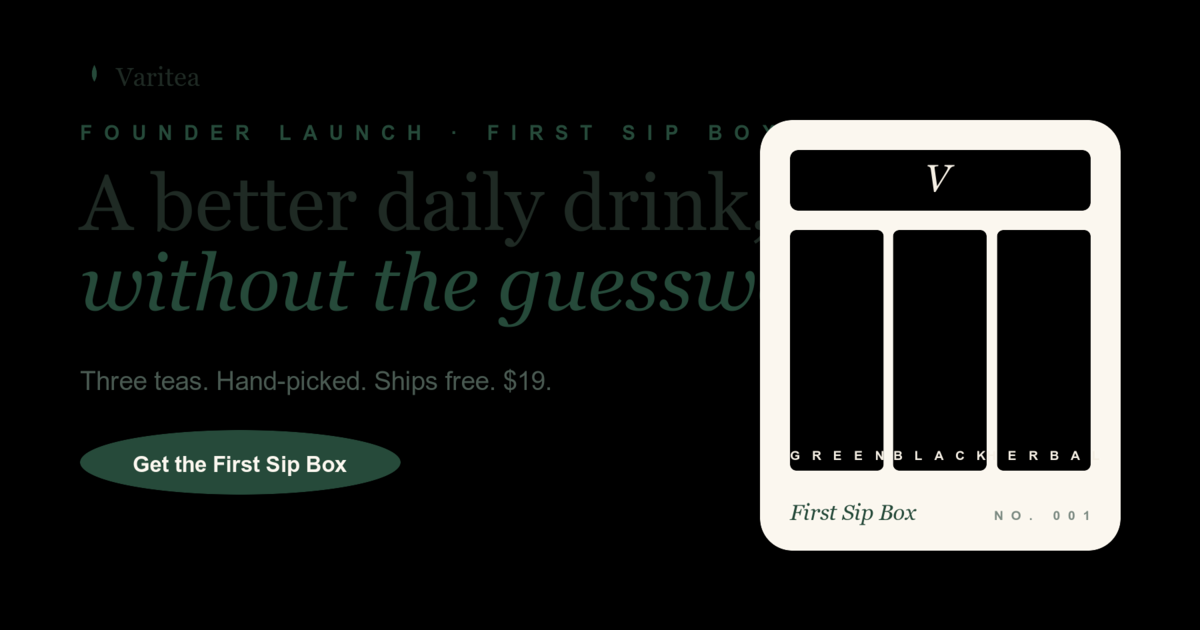
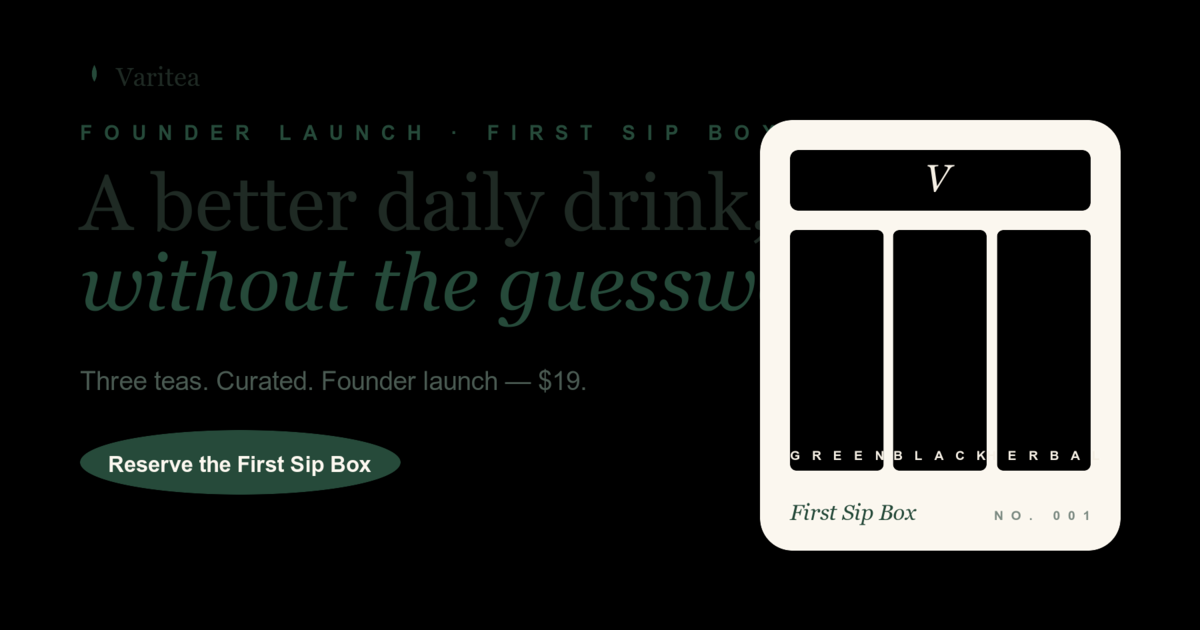
Landing: remove unvalidated claims (aggregateRating, free shipping, taste promise, fabricated testimonials)
- JSON-LD Product: drop aggregateRating (4.9/47 reviews) and shippingDetails
- FAQ schema + on-page FAQ: replace 'ships free' Q/A with 'shipping calculated at checkout'; remove 'our coffee-switching customers' phrasing
- Hero/footer/announce/bundle/feature: replace 'Free US shipping', '30-day taste promise', refund language, 'small-batch', 'hand-picked/hand-curated' with neutral 'founder launch offer', 'curated', 'planned', 'shipping calculated at checkout'
- Marquee strip: replace fabricated testimonial quotes with brand value statements
- Persona section: 'keep ordering this box' -> 'designed for three kinds of people'
- OG image SVG/PNG: replace 'Hand-picked. Ships free.' subline with 'Curated. Founder launch — $19.' and CTA text
- README: update SEO inventory to reflect removed schema fields

Keeps the $19 founder launch offer intact.

Changed region(s): [[0.185, 0.573, 0.4933, 0.6333], [0.0925, 0.7238, 0.3083, 0.754]]

diff --git a/site/index.html b/site/index.html
@@ -7,7 +7,7 @@
 
 <!-- Primary SEO -->
 <title>Varitea First Sip Box — Curated 3-Tea Starter for People Who Want Better Than Coffee</title>
-<meta name="description" content="Skip the guessing. The Varitea First Sip Box is a hand-curated 3-tea sampler — a loose leaf tea sampler, herbal tea sampler and beginner tea box in one. $19, ships free. Founder launch offer.">
+<meta name="description" content="Skip the guessing. The Varitea First Sip Box is a curated 3-tea sampler — a loose leaf tea sampler, herbal tea sampler and beginner tea box in one. $19 founder launch offer.">
 <meta name="keywords" content="custom tea blend, loose leaf tea sampler, tea gift box, iced tea starter, coffee alternative tea, herbal tea sampler, beginner tea box">
 <link rel="canonical" href="https://drinkvaritea.com/">
 
@@ -15,12 +15,12 @@
 <meta property="og:type" content="website">
 <meta property="og:site_name" content="Varitea">
 <meta property="og:title" content="Varitea First Sip Box — A better daily drink, without the guesswork">
-<meta property="og:description" content="A curated 3-tea starter for coffee refugees, variety seekers, and gifters. Founder launch offer: $19, ships free.">
+<meta property="og:description" content="A curated 3-tea starter for coffee refugees, variety seekers, and gifters. Founder launch offer: $19.">
 <meta property="og:url" content="https://drinkvaritea.com/">
 <meta property="og:image" content="https://drinkvaritea.com/assets/og-image.png">
 <meta property="og:image:width" content="1200">
 <meta property="og:image:height" content="630">
-<meta property="og:image:alt" content="Varitea First Sip Box — a curated 3-tea starter sampler for $19">
+<meta property="og:image:alt" content="Varitea First Sip Box — a planned 3-tea starter sampler, $19 founder launch offer">
 <meta property="og:locale" content="en_US">
 
 <!-- Twitter -->
@@ -51,6 +51,7 @@
       "url": "https://drinkvaritea.com/",
       "logo": "https://drinkvaritea.com/assets/logo.svg",
       "description": "Taste-first DTC tea discovery brand. Curated loose-leaf tea boxes for people who want a better daily drink without the guesswork.",
+      "foundingDate": "2026",
       "sameAs": []
     },
     {
@@ -63,10 +64,10 @@
     {
       "@type": "Product",
       "name": "Varitea First Sip Box",
-      "description": "A hand-curated 3-tea starter sampler. One bright green, one bold black, one calming herbal — chosen so you can find your daily drink fast. Loose-leaf, small-batch, beginner-friendly.",
+      "description": "A curated 3-tea starter sampler. One bright green, one bold black, one calming herbal — chosen so you can find your daily drink fast. Loose-leaf, beginner-friendly.",
       "brand": { "@type": "Brand", "name": "Varitea" },
       "category": "Tea sampler",
-      "image": "https://drinkvaritea.com/assets/first-sip-box.jpg",
+      "image": "https://drinkvaritea.com/assets/og-image.png",
       "sku": "VT-FSB-001",
       "offers": {
         "@type": "Offer",
@@ -74,18 +75,7 @@
         "priceCurrency": "USD",
         "price": "19.00",
         "availability": "https://schema.org/PreOrder",
-        "itemCondition": "https://schema.org/NewCondition",
-        "shippingDetails": {
-          "@type": "OfferShippingDetails",
-          "shippingRate": { "@type": "MonetaryAmount", "value": "0", "currency": "USD" },
-          "shippingDestination": { "@type": "DefinedRegion", "addressCountry": "US" }
-        }
-      },
-      "aggregateRating": {
-        "@type": "AggregateRating",
-        "ratingValue": "4.9",
-        "reviewCount": "47",
-        "bestRating": "5"
+        "itemCondition": "https://schema.org/NewCondition"
       }
     }
   ]
@@ -103,7 +93,7 @@
       "name": "What is the Varitea First Sip Box?",
       "acceptedAnswer": {
         "@type": "Answer",
-        "text": "A curated 3-tea starter sampler designed to help you find your daily drink fast. You get one bright green, one bold black, and one calming herbal — all loose-leaf, small-batch, and beginner-friendly. Brewing guide and tasting notes included."
+        "text": "A curated 3-tea starter sampler designed to help you find your daily drink fast. The planned box includes one bright green, one bold black, and one calming herbal — all loose-leaf and beginner-friendly. Brewing guide and tasting notes included."
       }
     },
     {
@@ -111,7 +101,7 @@
       "name": "How much tea is in the First Sip Box?",
       "acceptedAnswer": {
         "@type": "Answer",
-        "text": "Three pouches, each brews about 8–10 cups. Plenty to actually live with a tea for a few mornings and figure out what you love."
+        "text": "Three pouches, each planned to brew about 8–10 cups — enough to live with a tea for a few mornings and figure out what you love."
       }
     },
     {
@@ -119,15 +109,15 @@
       "name": "I drink coffee. Will Varitea tea actually keep me going?",
       "acceptedAnswer": {
         "@type": "Answer",
-        "text": "Yes. The box includes a bold black tea with caffeine in the same neighborhood as a light coffee, plus a green for a smoother lift. Many of our coffee-switching customers use the black tea as a one-to-one morning replacement."
+        "text": "The box is built around this question. It includes a bold black tea with caffeine in the same neighborhood as a light coffee, plus a green for a smoother lift — both designed to work as a morning replacement."
       }
     },
     {
       "@type": "Question",
-      "name": "Do you ship for free?",
+      "name": "How much does shipping cost?",
       "acceptedAnswer": {
         "@type": "Answer",
-        "text": "Yes. The $19 First Sip Box ships free in the United States during the founder launch."
+        "text": "Shipping is calculated at checkout based on your address. Final rates will be confirmed when the founder launch opens for orders."
       }
     },
     {
@@ -135,7 +125,7 @@
       "name": "Can I give the First Sip Box as a gift?",
       "acceptedAnswer": {
         "@type": "Answer",
-        "text": "Absolutely. The box is built to be giftable — a clean, premium tea gift box that works for tea drinkers, coffee switchers, and anyone curious. Add a gift note at checkout."
+        "text": "Yes. The box is designed to be giftable — a clean tea gift box that works for tea drinkers, coffee switchers, and anyone curious. A Gift Edition with a hand-written note is planned at launch."
       }
     },
     {
@@ -159,7 +149,7 @@
 <!-- Top announcement bar -->
 <div class="announce" role="status">
   <span class="dot" aria-hidden="true"></span>
-  Founder launch — First Sip Box ships free in the US.
+  Founder launch — reserve your First Sip Box.
 </div>
 
 <!-- Nav -->
@@ -198,7 +188,7 @@
         </h1>
         <p class="lede" data-reveal>
           Three teas. One bright green, one bold black, one calming herbal —
-          hand-picked so you can stop scrolling shop pages and start drinking
+          curated so you can stop scrolling shop pages and start drinking
           something you actually love.
         </p>
         <div class="hero__cta" data-reveal>
@@ -218,9 +208,9 @@
           </a>
         </div>
         <ul class="trust" data-reveal>
-          <li><svg viewBox="0 0 24 24" aria-hidden="true"><path d="M20 6L9 17l-5-5" stroke="currentColor" stroke-width="2" fill="none" stroke-linecap="round" stroke-linejoin="round"/></svg> Free US shipping</li>
-          <li><svg viewBox="0 0 24 24" aria-hidden="true"><path d="M20 6L9 17l-5-5" stroke="currentColor" stroke-width="2" fill="none" stroke-linecap="round" stroke-linejoin="round"/></svg> Small-batch loose leaf</li>
-          <li><svg viewBox="0 0 24 24" aria-hidden="true"><path d="M20 6L9 17l-5-5" stroke="currentColor" stroke-width="2" fill="none" stroke-linecap="round" stroke-linejoin="round"/></svg> 30-day taste promise</li>
+          <li><svg viewBox="0 0 24 24" aria-hidden="true"><path d="M20 6L9 17l-5-5" stroke="currentColor" stroke-width="2" fill="none" stroke-linecap="round" stroke-linejoin="round"/></svg> Founder launch offer</li>
+          <li><svg viewBox="0 0 24 24" aria-hidden="true"><path d="M20 6L9 17l-5-5" stroke="currentColor" stroke-width="2" fill="none" stroke-linecap="round" stroke-linejoin="round"/></svg> Loose-leaf, tasting-flight format</li>
+          <li><svg viewBox="0 0 24 24" aria-hidden="true"><path d="M20 6L9 17l-5-5" stroke="currentColor" stroke-width="2" fill="none" stroke-linecap="round" stroke-linejoin="round"/></svg> Shipping calculated at checkout</li>
         </ul>
       </div>
 
@@ -251,16 +241,16 @@
     </div>
   </section>
 
-  <!-- ============ MARQUEE / TRUST ============ -->
-  <section class="strip" aria-label="What people are saying">
+  <!-- ============ MARQUEE / VALUES ============ -->
+  <section class="strip" aria-label="What Varitea is about">
     <div class="strip__track">
-      <span>“Replaced my morning coffee in a week.”</span><span>·</span>
-      <span>Loose-leaf, small batch</span><span>·</span>
-      <span>“Finally — a tea box that isn't overwhelming.”</span><span>·</span>
+      <span>Taste-first tea discovery</span><span>·</span>
+      <span>Loose-leaf, tasting-flight format</span><span>·</span>
+      <span>Three honest cups, not eighty choices</span><span>·</span>
       <span>Beginner-friendly brewing guide</span><span>·</span>
-      <span>“Best gift I gave last year.”</span><span>·</span>
-      <span>Free US shipping</span><span>·</span>
-      <span>“I taste what I'm buying. Wild concept.”</span><span>·</span>
+      <span>A box built to be giftable</span><span>·</span>
+      <span>Founder launch — $19</span><span>·</span>
+      <span>Honest tasting notes, no jargon</span><span>·</span>
     </div>
   </section>
 
@@ -292,8 +282,8 @@
     <ol class="steps">
       <li class="step" data-reveal>
         <span class="step__n">01</span>
-        <h3 class="step__h">Get your box</h3>
-        <p>Curated 3-tea starter, $19, ships free. No subscription, no surprise charges.</p>
+        <h3 class="step__h">Reserve your box</h3>
+        <p>Curated 3-tea starter, $19. No subscription. Shipping calculated at checkout.</p>
       </li>
       <li class="step" data-reveal>
         <span class="step__n">02</span>
@@ -347,8 +337,8 @@
         <p class="kicker" data-reveal>The First Sip Box</p>
         <h2 class="h2" data-reveal>One box. Three honest tastes. Zero overwhelm.</h2>
         <p class="lede" data-reveal>
-          A hand-curated loose leaf tea sampler built like a tasting flight —
-          green, black, herbal. Each pouch brews 8–10 cups, with hot and iced
+          A curated loose leaf tea sampler built like a tasting flight —
+          green, black, herbal. Each pouch is planned to brew 8–10 cups, with hot and iced
           recipes printed on the bag.
         </p>
 
@@ -356,7 +346,7 @@
           <label class="bundle__opt" data-analytics-event="bundle_option_click" data-bundle-id="single">
             <input type="radio" name="bundle" value="single" checked>
             <span class="bundle__title">First Sip Box</span>
-            <span class="bundle__sub">3 teas · $19 · ships free</span>
+            <span class="bundle__sub">3 teas · $19 · founder launch</span>
             <span class="bundle__price">$19</span>
           </label>
           <label class="bundle__opt bundle__opt--featured" data-analytics-event="bundle_option_click" data-bundle-id="double">
@@ -381,7 +371,7 @@
              data-cta-label="box_section_checkout">
             Send me the box →
           </a>
-          <p class="micro">No subscription. 30-day taste promise: love it or we refund the box.</p>
+          <p class="micro">No subscription. Shipping calculated at checkout.</p>
         </div>
       </div>
     </div>
@@ -390,7 +380,7 @@
   <!-- ============ AUDIENCE / WHO IT'S FOR ============ -->
   <section class="section section--soft" id="who">
     <p class="kicker center" data-reveal>Who it's for</p>
-    <h2 class="h2 center" data-reveal>Three kinds of people keep ordering this box.</h2>
+    <h2 class="h2 center" data-reveal>The box is designed for three kinds of people.</h2>
 
     <div class="persona-grid">
       <article class="persona" data-reveal>
@@ -466,8 +456,8 @@
     <ul class="feature-grid">
       <li class="feature" data-reveal>
         <span class="feature__num">01</span>
-        <h3>3 hand-picked loose-leaf teas</h3>
-        <p>Green, black, herbal. Small-batch, sealed for freshness, around 8–10 cups per pouch.</p>
+        <h3>3 curated loose-leaf teas</h3>
+        <p>Green, black, herbal. Sealed for freshness, planned at around 8–10 cups per pouch.</p>
       </li>
       <li class="feature" data-reveal>
         <span class="feature__num">02</span>
@@ -481,8 +471,8 @@
       </li>
       <li class="feature" data-reveal>
         <span class="feature__num">04</span>
-        <h3>30-day taste promise</h3>
-        <p>If you don't find a daily drink in the box, we'll refund it. We mean it.</p>
+        <h3>Founder launch pricing</h3>
+        <p>$19 for the first batch. Tell us what you loved and we'll restock that one — or recommend what's next.</p>
       </li>
     </ul>
   </section>
@@ -495,23 +485,23 @@
     <div class="faq__list">
       <details class="faq__item" data-reveal>
         <summary>What is the Varitea First Sip Box?</summary>
-        <p>A curated 3-tea starter sampler designed to help you find your daily drink fast. You get one bright green, one bold black, and one calming herbal — all loose-leaf, small-batch, and beginner-friendly. Brewing guide and tasting notes included.</p>
+        <p>A curated 3-tea starter sampler designed to help you find your daily drink fast. The planned box includes one bright green, one bold black, and one calming herbal — all loose-leaf and beginner-friendly. Brewing guide and tasting notes included.</p>
       </details>
       <details class="faq__item" data-reveal>
         <summary>How much tea is in the box?</summary>
-        <p>Three pouches, each brews about 8–10 cups. Plenty to actually live with a tea for a few mornings and figure out what you love.</p>
+        <p>Three pouches, each planned to brew about 8–10 cups — enough to live with a tea for a few mornings and figure out what you love.</p>
       </details>
       <details class="faq__item" data-reveal>
         <summary>I drink coffee. Will this actually keep me going?</summary>
-        <p>Yes. The box includes a bold black tea with caffeine in the same neighborhood as a light coffee, plus a green for a smoother lift. Many of our coffee-switching customers use the black tea as a one-to-one morning replacement.</p>
+        <p>The box is built around this question. It includes a bold black tea with caffeine in the same neighborhood as a light coffee, plus a green for a smoother lift — both designed to work as a morning replacement.</p>
       </details>
       <details class="faq__item" data-reveal>
-        <summary>Do you ship for free?</summary>
-        <p>Yes — the $19 First Sip Box ships free in the United States during the founder launch.</p>
+        <summary>How much does shipping cost?</summary>
+        <p>Shipping is calculated at checkout based on your address. Final rates will be confirmed when the founder launch opens for orders.</p>
       </details>
       <details class="faq__item" data-reveal>
         <summary>Can I give this as a gift?</summary>
-        <p>Yes. The Gift Edition adds a hand-written note card. The box itself is built to feel premium — a clean tea gift box that works for tea drinkers, coffee switchers, and the curious.</p>
+        <p>Yes. The box is designed to feel like a tea gift box that works for tea drinkers, coffee switchers, and the curious. A Gift Edition with a hand-written note is planned at launch.</p>
       </details>
       <details class="faq__item" data-reveal>
         <summary>Can I drink these teas iced?</summary>
@@ -537,7 +527,7 @@
            data-cta-label="finale_checkout">
           Get the First Sip Box — $19
         </a>
-        <p class="micro">Ships free in the US · 30-day taste promise</p>
+        <p class="micro">$19 founder launch offer · shipping calculated at checkout</p>
       </div>
     </div>
   </section>

diff --git a/site/README.md b/site/README.md
@@ -88,7 +88,7 @@ All clicked elements with `[data-analytics-event]` are tracked via a single dele
 - **Semantic headings:** one `<h1>`, multiple `<h2>` per section, `<h3>` for cards
 - **JSON-LD:**
   - `Organization` + `WebSite`
-  - `Product` with `Offer` ($19, USD, free US shipping, PreOrder), `aggregateRating`
+  - `Product` with `Offer` ($19 USD, `PreOrder` availability) — no `aggregateRating`, no shipping rate (real values to be added post-launch)
   - `FAQPage` with six Q/A pairs
 - **Targeted keywords** woven into copy: *custom tea blend, loose leaf tea sampler, tea gift box, iced tea starter, coffee alternative tea, herbal tea sampler, beginner tea box*
 - **`robots.txt` + `sitemap.xml`** in place